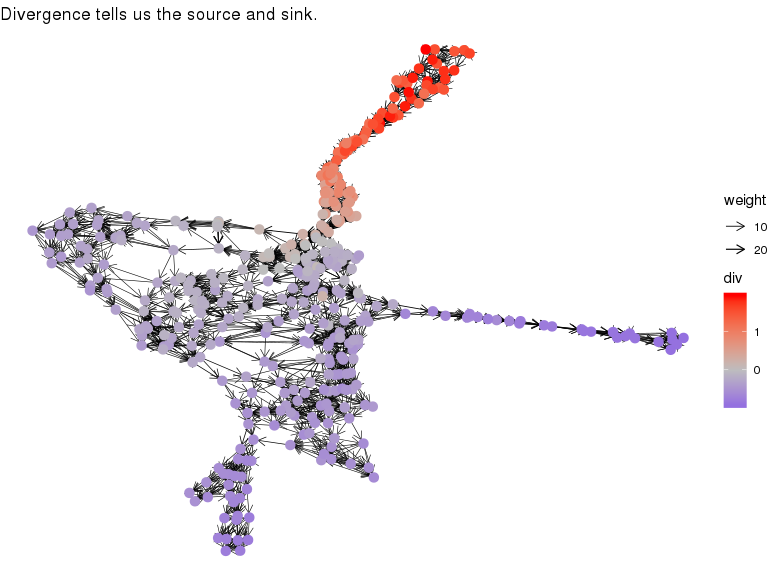
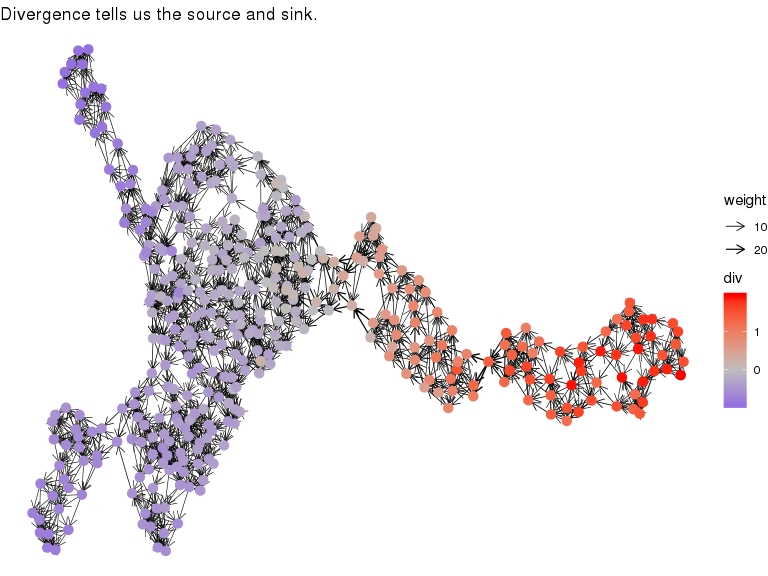
recommended stress layout and added a breaf example of large cell number

Changed region(s): [[0.0312, 0.0625, 0.9062, 0.9688]]

diff --git a/README.md b/README.md
@@ -18,8 +18,7 @@ any (both of acyclic and cyclic) directed graph structure.
 The first version of this package implements `diffusionGraph` as a
 design of edges. The resulting graph consists of sparse gradient flows
 (i.e. pure directed acyclic graph) and is suitable to sketch out the
-ideas from a simplified flow network of a stochastic process along
-high-dimensional energy landscape.
+ideas from a simplified flow network.
 
 ## Installation
 
@@ -74,10 +73,10 @@ X <- 2^X[apply(X,1,var)>0,] - 1
 
 #### The ddhodge part
 
-Specify input data matrix and roots (starting points).
+Specify input data matrix (raw UMI counts) and the indices of starting
+cells (roots).
 
 ``` r
-#g <- diffusionGraph(X,group=="MEF",k=11,npc=50,ndc=20,s=10)
 g <- diffusionGraph(X,group=="MEF",k=7,npc=100,ndc=40,s=2)
 ```
 
@@ -89,23 +88,19 @@ dggraph <- function(g,...)
   geom_edge_link(
     aes(width=weight),
     colour="black",
-    #arrow=arrow(length=unit(1.8,"mm")),
     arrow=arrow(length=unit(2.4,"mm")),
-    #end_cap = circle(1.2,'mm'), alpha=0.6,
     end_cap = circle(1.2,'mm'),
   ) + scale_edge_width(range=c(0.2,0.5)) +
   geom_node_point(...)
 
 igraph::V(g)$group <- group
-#set.seed(123) # for reproducible graph layout
-set.seed(321) # for reproducible graph layout
-lo <- create_layout(g,"fr")
+# stress layout gives a nice visualization for >1k cells
+lo <- create_layout(g,"stress")
 
 p1 <- dggraph(lo,aes(colour=group),size=2) +
   ggtitle("Sparse reconstruction of diffusion process (k=7)") +
   scale_color_d3("category10")
 
-#p2 <- dggraph(lo,aes(colour=div,size=div^2)) +
 p2 <- dggraph(lo,aes(colour=div),size=3) +
   ggtitle("Divergence tells us the source and sink.") +
   scale_color_gradient2(low="blue",mid="grey",high="red")
@@ -140,15 +135,24 @@ print(list(p1,p2,p3,p4))
 
 <img src="man/figures/README-drawGraph-4.png" width="100%" />
 
+Here is the another application to the large cell number of 10X Chromium
+data by Hochgerner et al. (Nature Neuroscience, 2018) with the
+parameters: `group=="nIPC",k=7,npc=100,ndc=40,s=3`.
+
+![ex\_10X](man/figures/dentate-gyrus-neurogenesis_hochgerner.png)
+
+The count matrix was downlowded from
+<https://zenodo.org/record/1443566>.
+
 ### Max-flow
 
-Max-flow as a mainstream of paths between specified source-sink pair.
+Max-flow algorithm can be used to extract main/sub-streams between the
+specified source-sink clusters.
 
 ``` r
 g <- multimaxflow(g,which(group=="MEF"),which(group=="Neuron")[10:15])
 #g <- multimaxflow(g,which(group=="MEF"),which(group=="Myocyte")[10:15])
-set.seed(321)
-ggraph(g,"lgl") + theme_void() +
+ggraph(g,"stress") + theme_void() +
   geom_node_point(aes(colour=group,size=pass)) +
   geom_edge_link(
     aes(width=flow),
@@ -162,7 +166,7 @@ ggraph(g,"lgl") + theme_void() +
 
 ## TODO
 
-  - Add more examples and documentations
+  - Add more appealing demos and documentations
   - Construction of causal and cyclic flows
   - Pseudo-dynamics reconstruction using extracted pseudo-time
     structures
